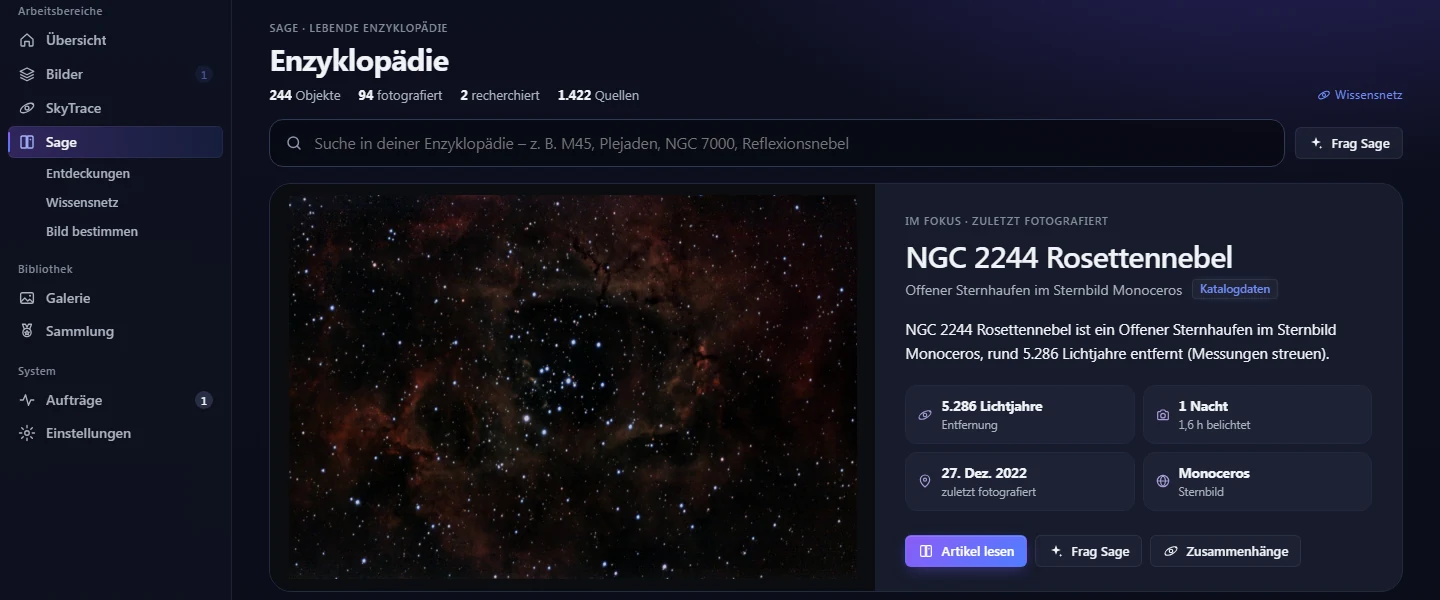
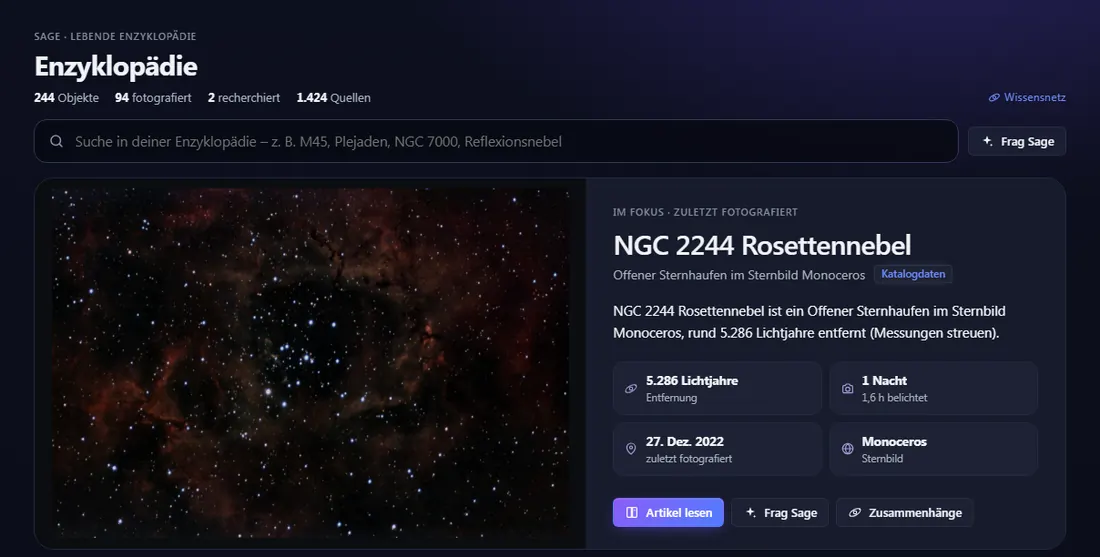
Sage-Modulseite ausgebaut: Gliederung, Belegpflicht, KI-Tabelle, neue Bilder und Rundgang

diff --git a/docs/module/sage.md b/docs/module/sage.md
@@ -1,15 +1,186 @@
 # Sage – die lebende Enzyklopädie
 
-Was du fotografiert hast, erklärt: Objekte bestimmen, aus Fachkatalogen recherchieren, Geschichten, Entdeckungen und Wissensnetz.
+Sage erklärt, was du fotografiert hast: Jedes Objekt bekommt einen Eintrag mit deinem Bild, Messwerten aus Fachkatalogen,
+deinen eigenen Beobachtungen und – wenn du eine KI einrichtest – Recherche, Geschichten und einem Gesprächspartner. Alles läuft lokal
+auf deinem Rechner, ohne Konto.
 
 [← Zurück zur Übersicht](../../README.md)
 
-| | |
-|---|---|
-| ![Sage-Enzyklopädie](../screenshots/sage-enzyklopaedie.webp) | ![Sammlung und Erfolge](../screenshots/sage-sammlung.webp) |
-| **Enzyklopädie:** jedes fotografierte Objekt bekommt einen Eintrag mit deinem Bild, Katalogdaten und Beobachtungen; jede Aussage hat eine Quelle oder ist als KI-Vorschlag gekennzeichnet. | **Sammlung & Erfolge:** Messier-Fortschritt, Meilensteine und Erfolge für jedes neu bestimmte Objekt. |
+![Rundgang durch Sage: Enzyklopädie, Objektseite, Quellen, persönliche Daten, Zusammenhänge, Sammlung](../media/sage-rundgang.webp)
 
-Dazu: **Bild bestimmen**, **Geschichte erzählen** und vorlesen lassen, **Meine Entdeckungen**, **Wissensnetz**. Gestackte Aufnahmen landen auf Wunsch automatisch in
-Sage und SkyTrace.
+**Inhalt**
+
+1. [Die Grundregel: Belegpflicht](#die-grundregel-belegpflicht)
+2. [Enzyklopädie und Objektseite](#enzyklopädie-und-objektseite)
+3. [Bild bestimmen](#bild-bestimmen)
+4. [Recherche: Fachkataloge und KI-Agent](#recherche-fachkataloge-und-ki-agent)
+5. [Dein Beobachtungsgedächtnis](#dein-beobachtungsgedächtnis)
+6. [Wissensnetz](#wissensnetz)
+7. [Meine Entdeckungen](#meine-entdeckungen)
+8. [Frag Sage – der Chat](#frag-sage--der-chat)
+9. [Geschichten und Audioführung](#geschichten-und-audioführung)
+10. [Sammlung und Erfolge](#sammlung-und-erfolge)
+11. [Zusammenspiel mit Bilder und dem Observatorium](#zusammenspiel-mit-bilder-und-dem-observatorium)
+12. [Was braucht eine KI, was geht ohne?](#was-braucht-eine-ki-was-geht-ohne)
+
+## Die Grundregel: Belegpflicht
+
+Sage trennt strikt, was gemessen ist und was ein Sprachmodell geschrieben hat:
+
+- **Messwerte kommen aus Fachquellen**, nie von der KI: Koordinaten, Objektart, Entfernung, Winkelgröße, Helligkeit und Zugehörigkeit
+  stammen aus [SIMBAD](https://simbad.cds.unistra.fr/); jede Entfernungsmessung ist mit ihrer Literaturquelle verknüpft. Streuen die
+  Messungen stark, steht das so da („Messungen streuen“), statt einen schönen Mittelwert vorzutäuschen.
+- **Jede Aussage hat eine Quelle** (nummerierte Verweise im Text, die zur Quellenliste führen) **oder ist als KI-Vorschlag gekennzeichnet.**
+  Texte der KI tragen das Etikett **„KI-Entwurf“**, bis du sie selbst mit „Als geprüft markieren“ bestätigst.
+- **Ein Prüfer liest mit:** Absätze ohne Beleg, Verweise auf unbekannte Quellen und Zahlen, die den Katalogwerten widersprechen, werden
+  markiert.
+- **Persönliche Aussagen nur aus echten Daten** („Du hast M51 zweimal aufgenommen …“) – mit der Grundlage dahinter.
+- **Inhalte aus dem Netz sind Daten, keine Anweisungen:** Was ein Katalog oder ein Fachartikel enthält, steuert die KI nicht.
+
+## Enzyklopädie und Objektseite
+
+Die Startseite ist ein Portal im Stil einer Enzyklopädie-Hauptseite: Suche, ein Bild „im Fokus“ (zuletzt fotografiert, umschaltbar), „Heute
+Nacht am Himmel“ mit den Objekten, die um Mitternacht hoch stehen, „Neu entdeckt“ und ein Raster aller Einträge, filterbar nach Objektart.
+Die Suche kennt Namen, Kennungen und Fachbegriffe – auch ohne Umlaute und Schreibweisen wie „M 45“ oder „Plejaden“.
+
+![Enzyklopädie-Startseite mit Bild im Fokus](../screenshots/sage-enzyklopaedie.webp)
+
+Jedes Objekt hat eine eigene Seite: dein Bild als Titelbild, Kurztext, Kernwerte (Entfernung, Durchmesser, Helligkeit, Sternbild),
+Beschreibung mit Quellenverweisen, Schnellfakten, verwandte Objekte und deine Aufnahmen. Sieben Reiter ordnen den Rest:
+**Übersicht · Details · Bilder & Aufnahmen · Forschung & Quellen · Persönliche Daten · Zusammenhänge · Geschichten & Audio.**
+Die Seite lässt sich als Markdown **mit Quellen exportieren** und bearbeiten – eigene Korrekturen bleiben erhalten.
+
+![Objektseite der Whirlpoolgalaxie mit Beschreibung, Quellenverweisen und KI-Entwurf-Etikett](../screenshots/sage-objekt.webp)
+
+## Bild bestimmen
+
+Sage erkennt, was auf einem Bild zu sehen ist, und verknüpft jedes Objekt mit seinem Eintrag. Der Ablauf:
+
+1. **Bild kommt in die Galerie** – ein gestackter Master aus dem Bilder-Modul oder ein fertiges Bild über **Importieren**.
+2. **Position bestimmen:** Bei Bildern aus AstroFlow wird die gespeicherte Lösung des Stacks wiederverwendet (in Sekundenbruchteilen).
+   Sonst liest Sage die Koordinaten aus dem FITS-Header oder löst lokal mit ASTAP. Ohne Positionshinweis wird nicht blind gelöst.
+   Online-Lösen über nova.astrometry.net gibt es nur, wenn du es ausdrücklich erlaubst; das Bild wird dann hochgeladen.
+3. **Objekte eintragen:** Alle Katalogobjekte im Bildfeld bekommen sofort einen Eintrag; fehlende Details werden im Hintergrund aus
+   SIMBAD ergänzt. Im Bild ist jedes Objekt antippbar und öffnet seine Wissenskarte.
+
+Fertige Webbilder (stark verkleinerte JPG/PNG) lassen sich schlechter lösen als Smart-Teleskop-Bilder ab etwa 800 px; ohne erkennbares
+Objekt bleibt das Bild im Verlauf, ohne dass etwas Falsches eingetragen wird.
+
+## Recherche: Fachkataloge und KI-Agent
+
+Ein Eintrag entsteht in Stufen, jede ist einzeln nutzbar:
+
+1. **Grundeintrag** aus dem eingebauten Katalog – sofort, ohne Netz.
+2. **Katalogdaten** aus SIMBAD: Typ, Koordinaten, Entfernung (Parallaxe oder Median der Messungen), Hierarchie („Mitglied von …“,
+   „enthält …“), Literaturhinweise.
+3. **Mit KI recherchieren:** Ein begrenzter Agent liest dazu Fachartikel (arXiv, auf Wunsch NASA ADS), schreibt Abschnitte wie
+   Beschreibung, Physik und neue Forschung und gibt jede Aussage mit Beleg an. Jeder Lauf wird protokolliert (Schritte, abgerufene
+   Quellen, Kosten) und hat ein **Lauf- und ein Monatsbudget**, damit nichts unbemerkt teuer wird.
+
+Das Ergebnis erscheint als KI-Entwurf unter **Forschung & Quellen**; du kannst Abschnitte prüfen, bearbeiten, in früheren Fassungen
+nachlesen oder entfernen.
+
+![Forschung & Quellen mit KI-Entwurf, Quellenverweisen und Rechercheprotokoll](../screenshots/sage-belege.webp)
+
+## Dein Beobachtungsgedächtnis
+
+Sage kennt deine Aufnahmen aus dem Bilder-Modul und rechnet daraus persönliche Aussagen – jeweils mit der Grundlage, auf der sie beruhen
+(„berechnet, nicht geschätzt“):
+
+- wie oft und in wie vielen Nächten du ein Objekt aufgenommen hast, mit welcher Belichtung und welchem Gerät,
+- welche deiner Nächte die schärfste war (gemessene Sternbreite) und wie sich das Signal-Rausch-Verhältnis zwischen deinen
+  Bearbeitungsversionen verbessert hat,
+- welche anderen Objekte auf denselben Bildern auftauchen.
+
+Dazu gibt es **Notizen, Pläne und Beobachtungen** je Objekt (z. B. „Mehr Belichtung für den Rand“), die Sage bei Antworten und Vorschlägen kennt. Das alles braucht keine KI.
+
+![Persönliche Daten: berechnete Aussagen mit Grundlage, daneben Notizen und Pläne](../screenshots/sage-gedaechtnis.webp)
+
+## Wissensnetz
+
+Das Wissensnetz zeigt, wie deine Objekte zusammenhängen. Der Überblick **gruppiert nach Objektart oder Sternbild**; wichtige Objekte
+liegen in der Mitte, die Größe folgt den Belichtungsstunden. Antippen öffnet eine Infokarte mit den Verbindungen, ein Fokus auf ein
+Objekt zeigt seine Nachbarn in Ringen. Zoomen und Ziehen gehen auch per Touch.
+
+Linien tragen ihre Herkunft: **Fachkatalog**, **Grundwissen**, **deine Daten** oder **KI-Vorschlag** (gestrichelt). Vorschläge der KI
+gelten nicht als Wissen – du **bestätigst oder verwirfst** sie auf der Infokarte oder unter *Zusammenhänge* eines Objekts.
 
 ![Wissensnetz: Objekte nach Art gruppiert, Linien zeigen Zusammenhänge](../screenshots/wissensnetz.webp)
+
+![Zusammenhänge eines Objekts: Netz um die Whirlpoolgalaxie, Katalogbeziehungen und KI-Vorschläge zum Prüfen](../screenshots/sage-zusammenhaenge.webp)
+
+## Meine Entdeckungen
+
+Sage forscht im Hintergrund weiter und meldet, was für dich neu ist – jeweils mit „Warum?“:
+
+- **Neue Forschung** zu deinen Objekten (neue arXiv-Arbeiten, die dein Objekt im Titel oder Abstract nennen),
+- **Mehr in deinen Bildern:** weitere katalogisierte Galaxien im Bildfeld, die bei der Bestimmung nicht genannt wurden,
+- **Gemeinsame Regionen:** Objekte, die zur selben Gruppe gehören,
+- **Fehlende Einträge** ergänzen und **veraltete** Recherchen markieren,
+- **Beobachtungsvorschläge** für die nächsten Wochen (mit eingetragenem Standort).
+
+Die Aufgaben laufen in einem einstellbaren Intervall (Standard: täglich) oder auf Knopfdruck über **Jetzt suchen**; jede einzelne lässt
+sich abschalten. Funde fallen nicht doppelt an, und ein Fehler bei einer Aufgabe hält die anderen nicht auf.
+
+![Meine Entdeckungen mit Begründung und Hintergrundaufgaben](../screenshots/sage-entdeckungen.webp)
+
+## Frag Sage – der Chat
+
+Neben jedem Eintrag (und auf der Startseite) öffnet **Frag Sage** einen Chat, der die Enzyklopädie, deine Aufnahmen, SIMBAD und arXiv
+nutzt und mit einem eingebauten Rechner arbeitet. Antworten trennen **Fakt mit Quelle**, **deine Daten** und **Interpretation**. Als
+Beleg zählen nur Quellen, die Sage tatsächlich abgerufen hat – erfundene Verweise werden entfernt. Der Chat braucht eine eingerichtete KI.
+
+![Frag Sage: Chat mit Vorschlagsfragen zum Objekt](../screenshots/sage-chat.webp)
+
+## Geschichten und Audioführung
+
+Aus Enzyklopädie und deinen Daten erzählt Sage in sechs Formaten: **wissenschaftliche Dokumentation**, **spannende Geschichte**,
+**persönlicher Beobachtungsbericht**, **Einsteigererklärung**, **Deep Dive** und die **Audioführung durch dein Bild** – ein Abschnitt
+je Objekt, wobei beim Abspielen das jeweilige Objekt im Bild hervorgehoben wird. Alle Erzählungen sammeln sich unter „Deine Geschichten“.
+
+Vorlesen funktioniert wahlweise über OpenRouter (z. B. ElevenLabs-Stimmen), direkt über ein eigenes ElevenLabs-Konto oder einen lokalen,
+OpenAI-kompatiblen Sprachserver. Die Vertonung wird gespeichert und nur bei einer anderen Stimme neu erzeugt.
+
+![Geschichten & Audio: sechs Formate und gespeicherte Erzählungen](../screenshots/sage-geschichten.webp)
+
+## Sammlung und Erfolge
+
+Jedes bestimmte Objekt wandert in deine Sammlung. Der **Messier-Fortschritt** zeigt alle 110 Objekte als Kacheln – gefüllt mit deinem
+eigenen Bild, sobald du sie hast – dazu Meilensteine (nächstes Ziel mit Fortschrittsbalken) und **Erfolge** für Nächte, Belichtungszeit,
+Jahreszeiten, Objektarten und mehr. Neue Erfolge feiert die App wie bei Spielen unten rechts; sie beruhen ausschließlich auf deinen
+echten Daten und werden rückwirkend vergeben. Ein Klick auf eine Kachel öffnet den Eintrag.
+
+![Sammlung und Erfolge: Messier-Fortschritt mit deinen Bildern](../screenshots/sage-sammlung.webp)
+
+## Zusammenspiel mit Bilder und dem Observatorium
+
+- **Automatisch nach dem Stacken:** Ein fertiges Ergebnis wird auf Wunsch (Standard) sofort bestimmt, bekommt seine Einträge und – wenn
+  eine Erzähl-KI eingerichtet ist – eine Geschichte. Gleiches gilt für importierte fertige Bilder. Abschalten: Einstellungen → Sage.
+- **Observatorium:** Auf jeder Objektseite zeigt **Im Observatorium zeigen** das Objekt im Himmelsatlas mit deinen Fotos; ein Klick auf ein
+  Foto dort führt zurück zum Eintrag.
+- **Heute Nacht und Sammlung:** Die Planung weist bei Messier-Zielen darauf hin, das wievielte Objekt es für deine Sammlung wäre; die
+  Beobachtungsvorschläge von Sage nutzen deinen Standort aus den Einstellungen.
+- **Bilder-Modul:** Nächte, Belichtung, Gerät und Bildqualität kommen von dort – ohne Bilder-Modul bleibt Sage nutzbar, nur ohne persönliche Daten.
+
+## Was braucht eine KI, was geht ohne?
+
+Sage ist so gebaut, dass der Kern ohne KI und ohne Konto funktioniert. Eine KI ist eine Zusatzoption.
+
+| | Ohne KI-Schlüssel | Mit KI |
+|---|---|---|
+| Enzyklopädie, Suche, Objektseiten, Katalogwerte | ✔ (Internet nur für SIMBAD, sonst Grundeintrag) | – |
+| Bild bestimmen (Plate-Solving), Verlauf | ✔ (ASTAP lokal) | – |
+| Persönliche Daten, Notizen, Pläne | ✔ | – |
+| Wissensnetz (Katalog, Grundwissen, deine Daten) | ✔ | zusätzlich KI-Vorschläge zum Bestätigen |
+| Sammlung und Erfolge | ✔ | – |
+| Entdeckungen: neue arXiv-Arbeiten, Bildfeld-Funde, Gruppen, veraltete Einträge | ✔ | Zusammenfassungen nur nach ausdrücklicher Freigabe |
+| Audioführung | ✔ als Vorlage aus Katalogdaten | KI-Text |
+| Recherche mit Quellenabschnitten („Mit KI recherchieren“) | – | ✔ |
+| Geschichten, Chat „Frag Sage“ | – | ✔ |
+| Vorlesen | – | ✔ (OpenRouter, ElevenLabs oder lokaler Sprachserver) |
+
+- **Anbieter:** OpenAI, OpenRouter, LM Studio oder ein eigener OpenAI-kompatibler Server – auch rein lokal ohne Cloud. Schlüssel und
+  Modell trägst du unter Einstellungen → Sage ein; Schlüssel werden nur an die Adresse geschickt, für die du sie eingegeben hast.
+- **Kosten im Griff:** Lauf- und Monatsbudget, Protokoll aller Aufrufe; Hintergrundaufgaben nutzen eine KI nur, wenn du das erlaubst.
+- **Datenschutz:** Abgefragt werden SIMBAD und arXiv (Objektnamen, keine Standortdaten); an eine KI gehen Objektdaten und Katalogauszüge,
+  nie deine Bilder. Ohne Internet bleibt alles Bisherige sichtbar; neue Recherchen warten, bis es wieder geht.

diff --git a/README.md b/README.md
@@ -57,10 +57,11 @@ Standort- und Uhrsuche, Statistik und Erfolgen.
 <!-- modul:sage – Block pflegt die Sage-Sitzung -->
 ### Sage – die lebende Enzyklopädie
 
-Jedes fotografierte Objekt bekommt einen Eintrag mit deinem Bild, Katalogdaten und Quellen; dazu Bild bestimmen, Geschichten zum Vorlesen,
-Entdeckungen, Wissensnetz und Sammlung mit Erfolgen.
+Jedes fotografierte Objekt bekommt einen Eintrag mit deinem Bild, Messwerten aus Fachkatalogen und deinen eigenen Beobachtungen –
+jede Aussage mit Quelle oder als KI-Vorschlag gekennzeichnet. Dazu Wissensnetz, Entdeckungen, Geschichten zum Vorlesen und eine
+Messier-Sammlung. Der Kern läuft ohne KI-Schlüssel; Recherche, Chat und Geschichten sind optional.
 
-![Sage-Enzyklopädie](docs/screenshots/sage-enzyklopaedie.webp)
+![Rundgang durch Sage](docs/media/sage-rundgang.webp)
 
 **[Alles zu Sage →](docs/module/sage.md)**
 <!-- /modul:sage -->
